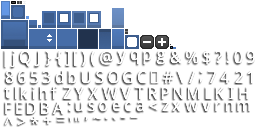
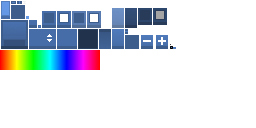
Added disable skins.

Changed region(s): [[0.0, 0.25, 1.0, 1.0], [0.4688, 0.0625, 0.6562, 0.2812], [0.0312, 0.0, 0.0938, 0.1562]]

diff --git a/core/src/net/pixelstatic/pixtigen/gui/VertexGUI.java b/core/src/net/pixelstatic/pixtigen/gui/VertexGUI.java
@@ -52,15 +52,10 @@ public class VertexGUI extends Module<Pixtigen>{
 		symmetry.setChecked(editor.selectedCanvas.symmetry);
 		overwrite.setChecked(drawMode);
 		overwrite.setText(drawMode ? "Draw Mode" : "Edit Mode");
-		clear.setColor( !drawMode ? Color.LIGHT_GRAY : Color.WHITE);
-		clear.setTouchable( !drawMode ? Touchable.disabled : Touchable.enabled);
-		symmetry.setColor( !drawMode ? Color.LIGHT_GRAY : Color.WHITE);
-		symmetry.setTouchable( !drawMode ? Touchable.disabled : Touchable.enabled);
-		delete.setColor( !drawMode ? Color.LIGHT_GRAY : Color.WHITE);
-		delete.setTouchable( !drawMode ? Touchable.disabled : Touchable.enabled);
-		smooth.setColor( !drawMode ? Color.LIGHT_GRAY : Color.WHITE);
-		smooth.setTouchable( !drawMode ? Touchable.disabled : Touchable.enabled);
-
+		clear.setDisabled(!drawMode);
+		symmetry.setDisabled(!drawMode);
+		delete.setDisabled(!drawMode);
+		smooth.setDisabled(!drawMode);
 	}
 
 	public void init(){
@@ -73,10 +68,6 @@ public class VertexGUI extends Module<Pixtigen>{
 
 	public VertexGUI(){
 		skin = new Skin(Gdx.files.internal("gui/uiskin.json"));
-		skin.add("colorbox", new Texture("gui/colorbox.png"));
-		skin.add("colorbar", new Texture("gui/colorbar.png"));
-		skin.add("darknessbar", new Texture("gui/darknessbar.png"));
-		skin.add("blank", new Texture("gui/blank.png"));
 		stage = new Stage();
 		stage.setViewport(new ScreenViewport());
 		ActorAlign.stage = stage;
@@ -324,10 +315,8 @@ public class VertexGUI extends Module<Pixtigen>{
 				}
 			});
 			if(filter.alwaysEnabled()){
-				checkbox.setTouchable(Touchable.disabled);
+				checkbox.setDisabled(true);
 				checkbox.setChecked(true);
-				checkbox.getImage().setColor(Color.GRAY);
-				//checkbox.getLabel().setColor(Color.GRAY);
 			}
 			editdialog.getContentTable().top().left().add(checkbox).align(Align.topLeft);
 
@@ -336,6 +325,7 @@ public class VertexGUI extends Module<Pixtigen>{
 				TextButton editbutton = new TextButton("Edit", skin);
 				editbutton.addListener(new ClickListener(){
 					public void clicked(InputEvent event, float x, float y){
+						if(filter.valueMap(materialbox.getSelected()).size() == 0) return;
 						//	System.out.println(materialbox.getSelected());
 						Dialog dialog = new Dialog("Edit Filter", skin){
 							public float getPrefWidth(){
@@ -385,9 +375,7 @@ public class VertexGUI extends Module<Pixtigen>{
 					}
 				});
 				if(filter.valueMap(materialbox.getSelected()).size() == 0){
-					editbutton.setTouchable(Touchable.disabled);
-					editbutton.setColor(Color.GRAY);
-					editbutton.getLabel().setColor(Color.GRAY);
+					editbutton.setDisabled(true);
 				}
 				editdialog.getContentTable().add(editbutton).width(60);
 

diff --git a/core/src/net/pixelstatic/pixtigen/gui/VertexEditor.java b/core/src/net/pixelstatic/pixtigen/gui/VertexEditor.java
@@ -3,7 +3,7 @@ import net.pixelstatic.pixtigen.Pixtigen;
 import net.pixelstatic.pixtigen.generator.*;
 import net.pixelstatic.pixtigen.generator.VertexObject.PolygonType;
 import net.pixelstatic.pixtigen.util.ValueMap;
-import net.pixelstatic.utils.Hue;
+import net.pixelstatic.utils.graphics.Hue;
 import net.pixelstatic.utils.modules.Module;
 
 import com.badlogic.gdx.Gdx;

diff --git a/core/src/net/pixelstatic/pixtigen/Pixtigen.java b/core/src/net/pixelstatic/pixtigen/Pixtigen.java
@@ -5,7 +5,7 @@ import net.pixelstatic.pixtigen.gui.VertexGUI;
 import net.pixelstatic.utils.modules.ModuleController;
 
 public class Pixtigen extends ModuleController<Pixtigen>{
-
+	
 	@Override
 	public void init () {
 		addModule(VertexEditor.class);
